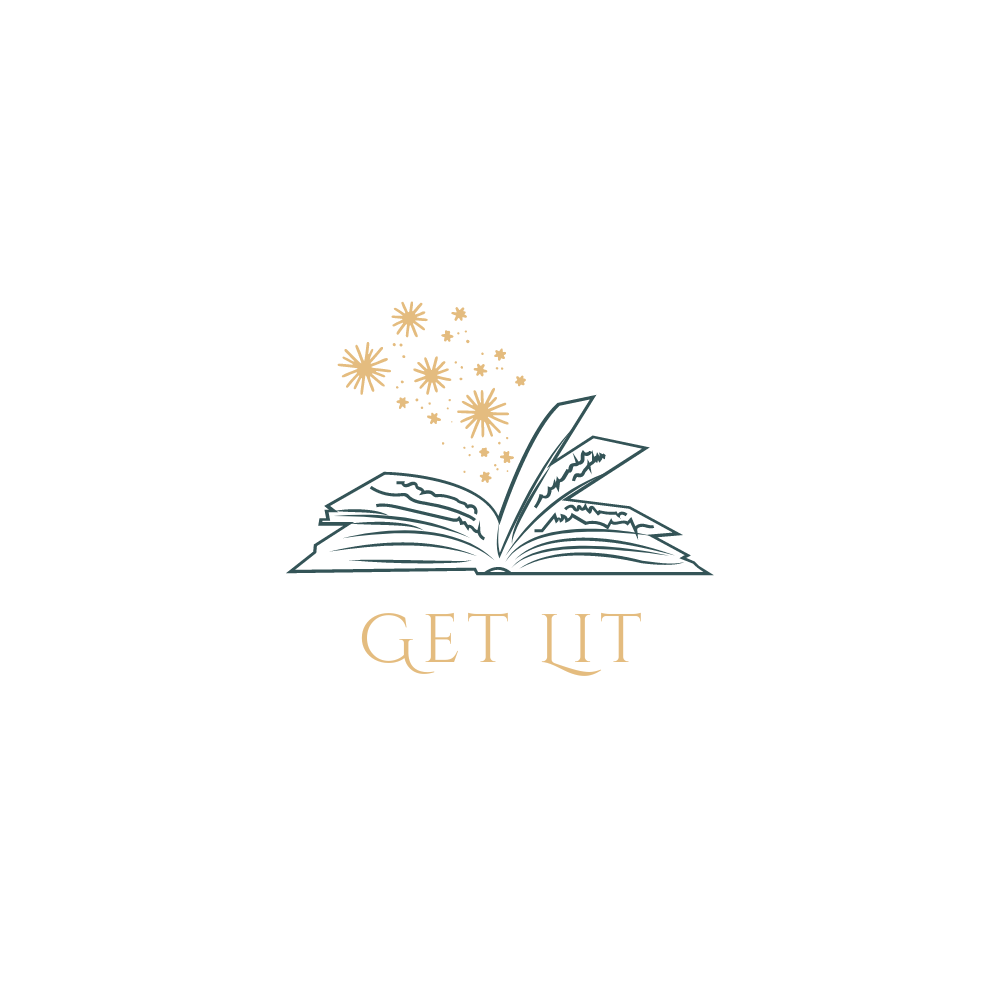
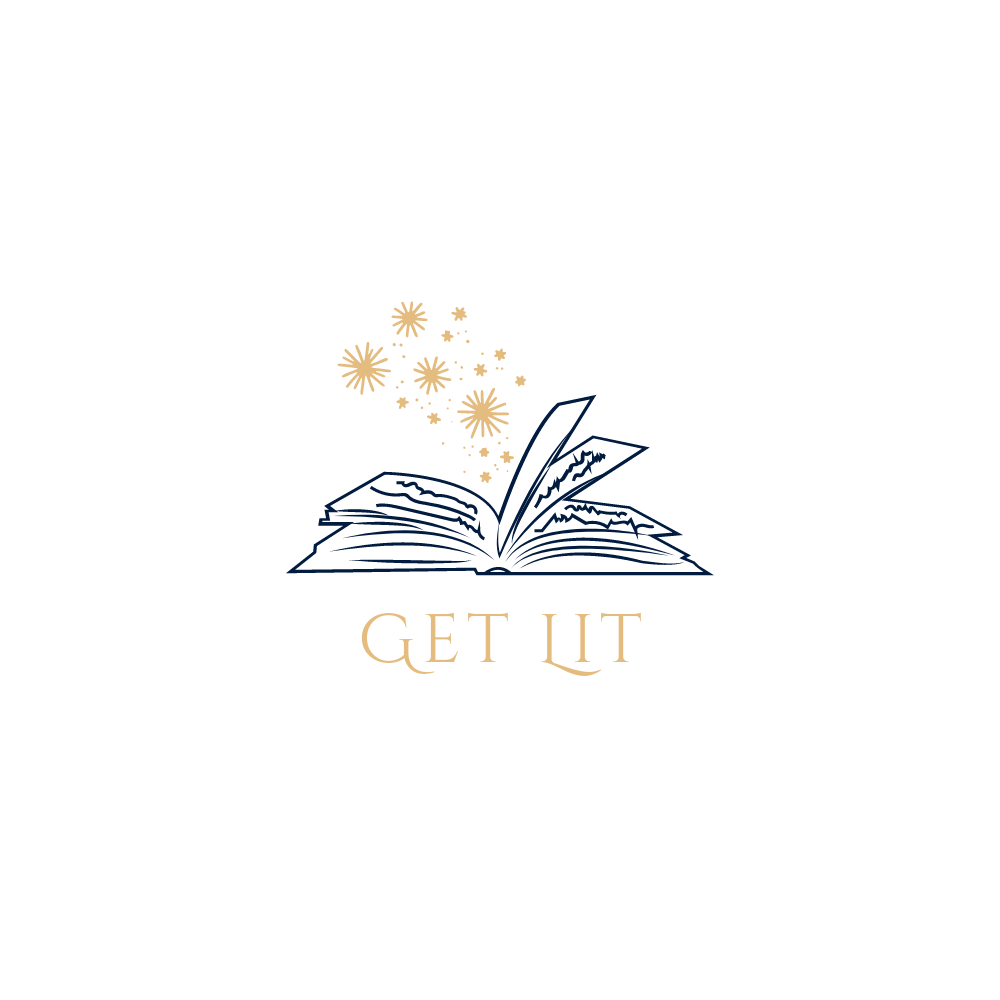
Sn brnach14 (#43)
* updating reg page

* formatting

* blue!

* logo

* add

* bg

* style nav

Changed region(s): [[0.279, 0.403, 0.713, 0.589]]

diff --git a/client/src/App.css b/client/src/App.css
@@ -1188,12 +1188,14 @@ body {
 }
 
 .ui.container1{
-  background-color: white;
   color: black;
   margin: 3%;
   border: 10px;
-
+  background-color:rgba(38, 47, 85, 0.8);
+  margin: 5%;
+  font-weight: bold;
 }
+
 
 @font-face {
   font-family: "PrStart";
@@ -1210,7 +1212,7 @@ body {
  * TODO: Make Background Dynamic
  */
 .background {
-  background: url("../public/assets/bg/1.png");
+  background: url("https://images2.alphacoders.com/705/705837.png");
   position: fixed;
   background-size: cover;
   background-repeat: no-repeat;
@@ -1222,30 +1224,6 @@ body {
 }
 
 .background2{
-  background: url("../public/assets/bg/1.png");
-  position: fixed;
-  background-size: cover;
-  background-repeat: no-repeat;
-  width: 100%;
-  height: 100%;
-  top: 0;
-  left: 0;
-  overflow: auto;
-}
-
-.background3{
-  background: url("../public/assets/bg/1.png");
-  position: fixed;
-  background-size: cover;
-  background-repeat: no-repeat;
-  width: 100%;
-  height: 100%;
-  top: 0;
-  left: 0;
-  overflow: auto;
-}
-
-.background4{
   background: url("../public/assets/bg/2.png");
   position: fixed;
   background-size: cover;
@@ -1257,7 +1235,7 @@ body {
   overflow: auto;
 }
 
-.background5{
+.background3{
   background: url("../public/assets/bg/3.png");
   position: fixed;
   background-size: cover;
@@ -1267,21 +1245,8 @@ body {
   top: 0;
   left: 0;
   overflow: auto;
-
 }
 
-.background6{
-  background: url("../public/assets/bg/3.png");
-  position: fixed;
-  background-size: cover;
-  background-repeat: no-repeat;
-  width: 100%;
-  height: 100%;
-  top: 0;
-  left: 0;
-  overflow: auto;
-
-}
 
 /* Navigation and misc */
 #main-content {
@@ -1325,7 +1290,7 @@ body {
   left: 0px;
   width: 200px;
   height: 100%;
-  background: url("https://t4.ftcdn.net/jpg/02/15/41/59/360_F_215415983_iQF8mT8PiTOLz1uolJuHYlem0WLZxlxW.jpg");
+  background: url("https://i.pinimg.com/originals/49/49/40/494940db287a82ef6047819d94098ff7.jpg");
   position: fixed;
   background-size:auto;
   overflow: hidden;

diff --git a/client/src/pages/auth/Register.jsx b/client/src/pages/auth/Register.jsx
@@ -24,20 +24,28 @@ const Register = (props) => {
 
   return (
     <div className='background'>
-    <Container className="ui container1">
-      <Header>Register</Header>
-      <FormProvider>
-        <Form submit={onSubmit} respond={onResponse} fields={[
-          { name: 'username', required: true },
-          { name: 'email', required: true },
-          {
-            name: '', widths: 'equal', fields: [
-              { name: 'password', type: 'password', required: true },
-              { name: 'password_confirmation', type: 'password', required: true }
-            ]
-          }
-        ]} />
-      </FormProvider>
+      <Container className= "ui container1">
+      <div class="ui grid">
+        <div class="six wide column left floated">
+          <img className='ui image' src='/assets/11.png' />
+        </div>
+        <div class="ten wide column left floated">
+          <br />
+          <Header>Register</Header>
+          <FormProvider>
+            <Form submit={onSubmit} respond={onResponse} fields={[
+              { name: 'username', required: true },
+              { name: 'email', required: true },
+              {
+                name: '', widths: 'equal', fields: [
+                  { name: 'password', type: 'password', required: true },
+                  { name: 'password_confirmation', type: 'password', required: true }
+                ]
+              }
+            ]} />
+          </FormProvider>
+        </div>
+      </div>
     </Container>
     </div>
   )

diff --git a/client/src/pages/Profile.jsx b/client/src/pages/Profile.jsx
@@ -44,28 +44,6 @@ const Profile = () => {
     //edit this so it renders dynamically
     <Container>
       <Header>Followers List</Header>
-      <div className="ui vertical list">
-        <div className="item">
-          <img className="ui mini circular image" src="" />
-          <div className="content">
-            <div className="ui sub header">Molly</div>
-          </div>
-        </div>
-        <br />
-        <div className="item">
-          <img className="ui mini circular image" src="" />
-          <div className="content">
-            <div className="ui sub header">Elyse</div>
-          </div>
-        </div>
-        <br />
-        <div className="item">
-          <img src="" className="ui mini circular image" />
-          <div className="content">
-            <div className="ui sub header">Eve</div>
-          </div>
-        </div>
-      </div>
     </Container>
   )
   const BioContainer = () => (
@@ -110,7 +88,7 @@ const Profile = () => {
   )
   return (
     <div className="background1">
-      <div className="right floated sixteen wide column body">          
+      <div className="right floated twelve wide column body">          
         <Segment>
           <Title />
           <Divider clearing/>

diff --git a/client/src/pages/LandingPage.jsx b/client/src/pages/LandingPage.jsx
@@ -18,8 +18,8 @@ function LandingPage() {
         <h1 className="title"><T>page_title</T></h1>
         <p className="text"><T>page_description</T></p>
         <p>
-          <button className="btn" onClick={() => setLanguage("en")} style={{background: getLanguage() === "en" ? "#008000" : "#a7a7a7"}}>English</button>
-          <button className="btn" onClick={() => setLanguage("es")} style={{background: getLanguage() === "es" ? "#008000" : "#a7a7a7"}}>Spanish</button>
+          <button className="btn" onClick={() => setLanguage("en")} style={{background: getLanguage() === "en" ? "#152238" : "#152238"}}>English</button>
+          <button className="btn" onClick={() => setLanguage("es")} style={{background: getLanguage() === "es" ? "#152238" : "#152238"}}>Spanish</button>
         </p>
       </div>
       {/* content in each class has a T surrounding it to say its from tolgee */}

diff --git a/client/src/pages/auth/Login.jsx b/client/src/pages/auth/Login.jsx
@@ -24,13 +24,11 @@ const Login = (props) => {
       <Container className= "ui container1">
       <div class="ui grid">
         <div class="six wide column left floated">
-        <img className='ui image' src='/assets/11.png' />
+        <img className='ui image' src='/assets/12.png' />
         </div>
         <div class="ten wide column right floated">
         <br />
-
         <br />
-        
           <Header>Login</Header>
           {message && <Message content={message} />}
             <FormProvider>
@@ -41,15 +39,11 @@ const Login = (props) => {
                 { content: 'Register', onClick: () => navigate('/register') }
               ]} />
               </FormProvider>
-              </div>
-              </div>
-      </Container>
-
       </div>
-      
-
-
-  )
+    </div>
+      </Container>
+      </div>
+    )
 }
 
 export default Login

diff --git a/client/src/pages/Profile.css b/client/src/pages/Profile.css
@@ -1,7 +1,7 @@
 @import url('https://fonts.googleapis.com/css2?family=Rajdhani:wght@300;500&display=swap');
 
 .hidden{
-    visibility: hidden;
+  visibility: hidden;
 }
 
 .imageBorder{
@@ -21,7 +21,7 @@
   height: 100%;
   top: 0;
   left: 0;
-  background: url('https://images7.alphacoders.com/120/1205979.png');
+  background: url('https://images.alphacoders.com/937/937990.jpg');
   position: fixed;
   background-size: cover;
   background-repeat: no-repeat;
@@ -29,12 +29,11 @@
 }
 
 .body{
-  
-    height: auto;
-    width: 75%;
-    display: flex;
-    justify-content: center;
-    margin-left: 200px;
+  height: auto;
+  width: 75%;
+  display: flex;
+  justify-content: center;
+  margin-left: 200px;
 }
 
 /* Navigation and misc */

diff --git a/client/src/pages/Lists.jsx b/client/src/pages/Lists.jsx
@@ -69,11 +69,11 @@ const Lists = (props) => {
   const nextPage = async () => setPageNum(Math.min(pageNum + 1, totalPages))
   const prevPage = async () => setPageNum(pageNum - 1 || 1)
 
-  if (loading) return <div className="background5"><Loading /></div>
+  if (loading) return <div className="background3"><Loading /></div>
 
   return (
-    <div className="background5">
-      <Container>
+    <div className="background3">
+      <Container className="ui container1">
         <Header as='h1'>Book Lists!</Header>
         {display === 'search' && (
           <FormProvider>

diff --git a/client/src/pages/Clubs.jsx b/client/src/pages/Clubs.jsx
@@ -72,8 +72,8 @@ const Clubs = (props) => {
   if (loading) return <div className="background5"><Loading /></div>
 
   return (
-    <div className="background5">
-      <Container>
+    <div className="background3">
+      <Container className="ui container1">
         <Header as='h1'>Book Clubs!</Header>
         {display === 'search' && (
           <FormProvider>

diff --git a/client/src/components/ProfileImage.jsx b/client/src/components/ProfileImage.jsx
@@ -37,11 +37,14 @@ const ProfileImage = () => {
 ]
 
     const onClickForward = () => {
-        if (sprite == 5){
-        setSprite(sprite-4)
-        } else {
+        if (sprite === 5){
+        setSprite(0)
+        } else (
+
             setSprite(sprite + 1)
-        }
+        ) 
+        console.log('catch')
+ 
     }
     return (
         <Container>

diff --git a/client/src/pages/BookSearch.jsx b/client/src/pages/BookSearch.jsx
@@ -29,7 +29,7 @@ const BookSearch = (props) => {
     }
   }
   return (
-    <Container  className="ui container1">
+    <Container className="ui container1 background3">
       <FormProvider>
         <Header as='h1'>Search</Header>
         <Form submit={onSubmit} respond={onResponse} fields={[

diff --git a/client/src/pages/ListDetails.jsx b/client/src/pages/ListDetails.jsx
@@ -44,7 +44,7 @@ const ListDetails = (props) => {
   }
 
   return (
-    <Container  className="ui container1">
+    <Container  className="ui container1 background3">
       <Header as='h1' content={name} subheader={creator.username} />
       <Segment>
         <Header>Description</Header>

diff --git a/client/src/components/forms/CreateList.jsx b/client/src/components/forms/CreateList.jsx
@@ -33,7 +33,7 @@ const BookListForm = (props) => {
   }
 
   return (
-    <Container>
+    <Container className="background3">
       <FormProvider>
         <Header as='h1'>New Book List</Header>
         <Form submit={onSubmit} respond={onResponse} fields={[
